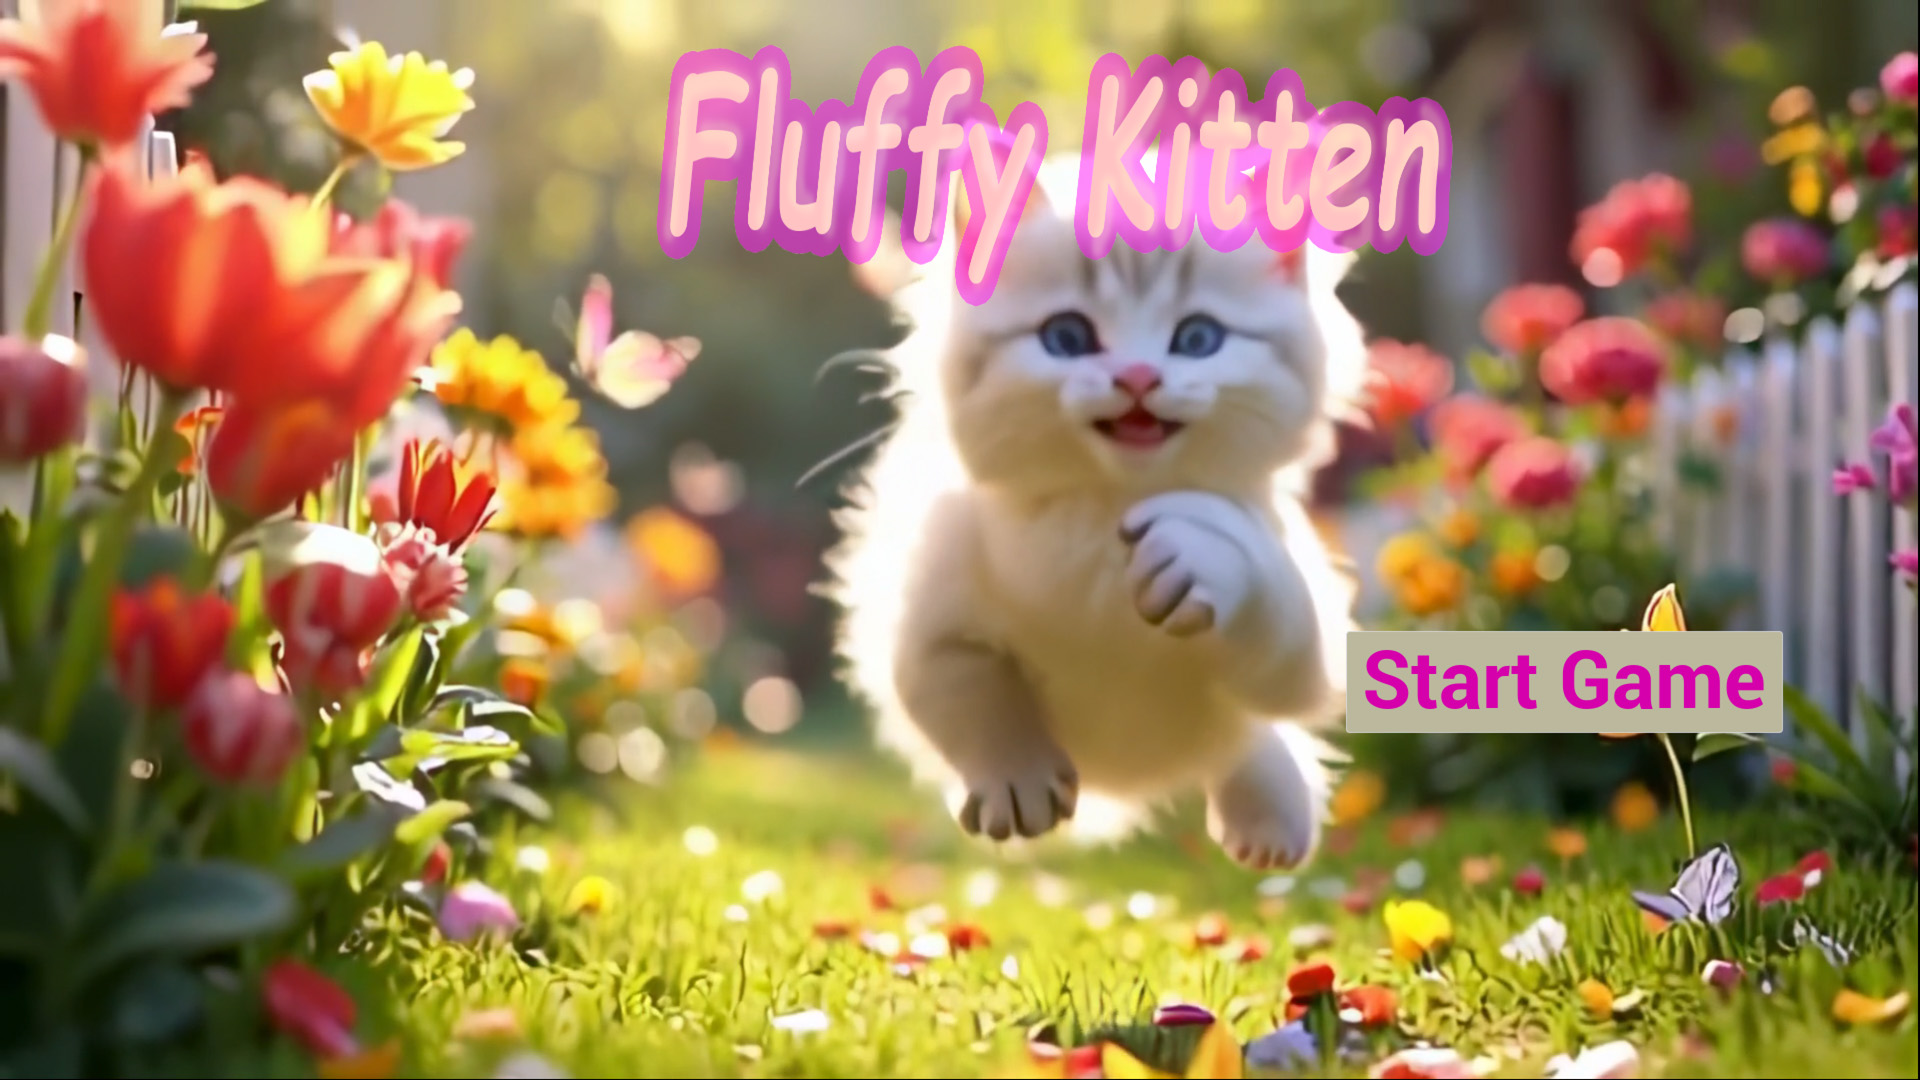
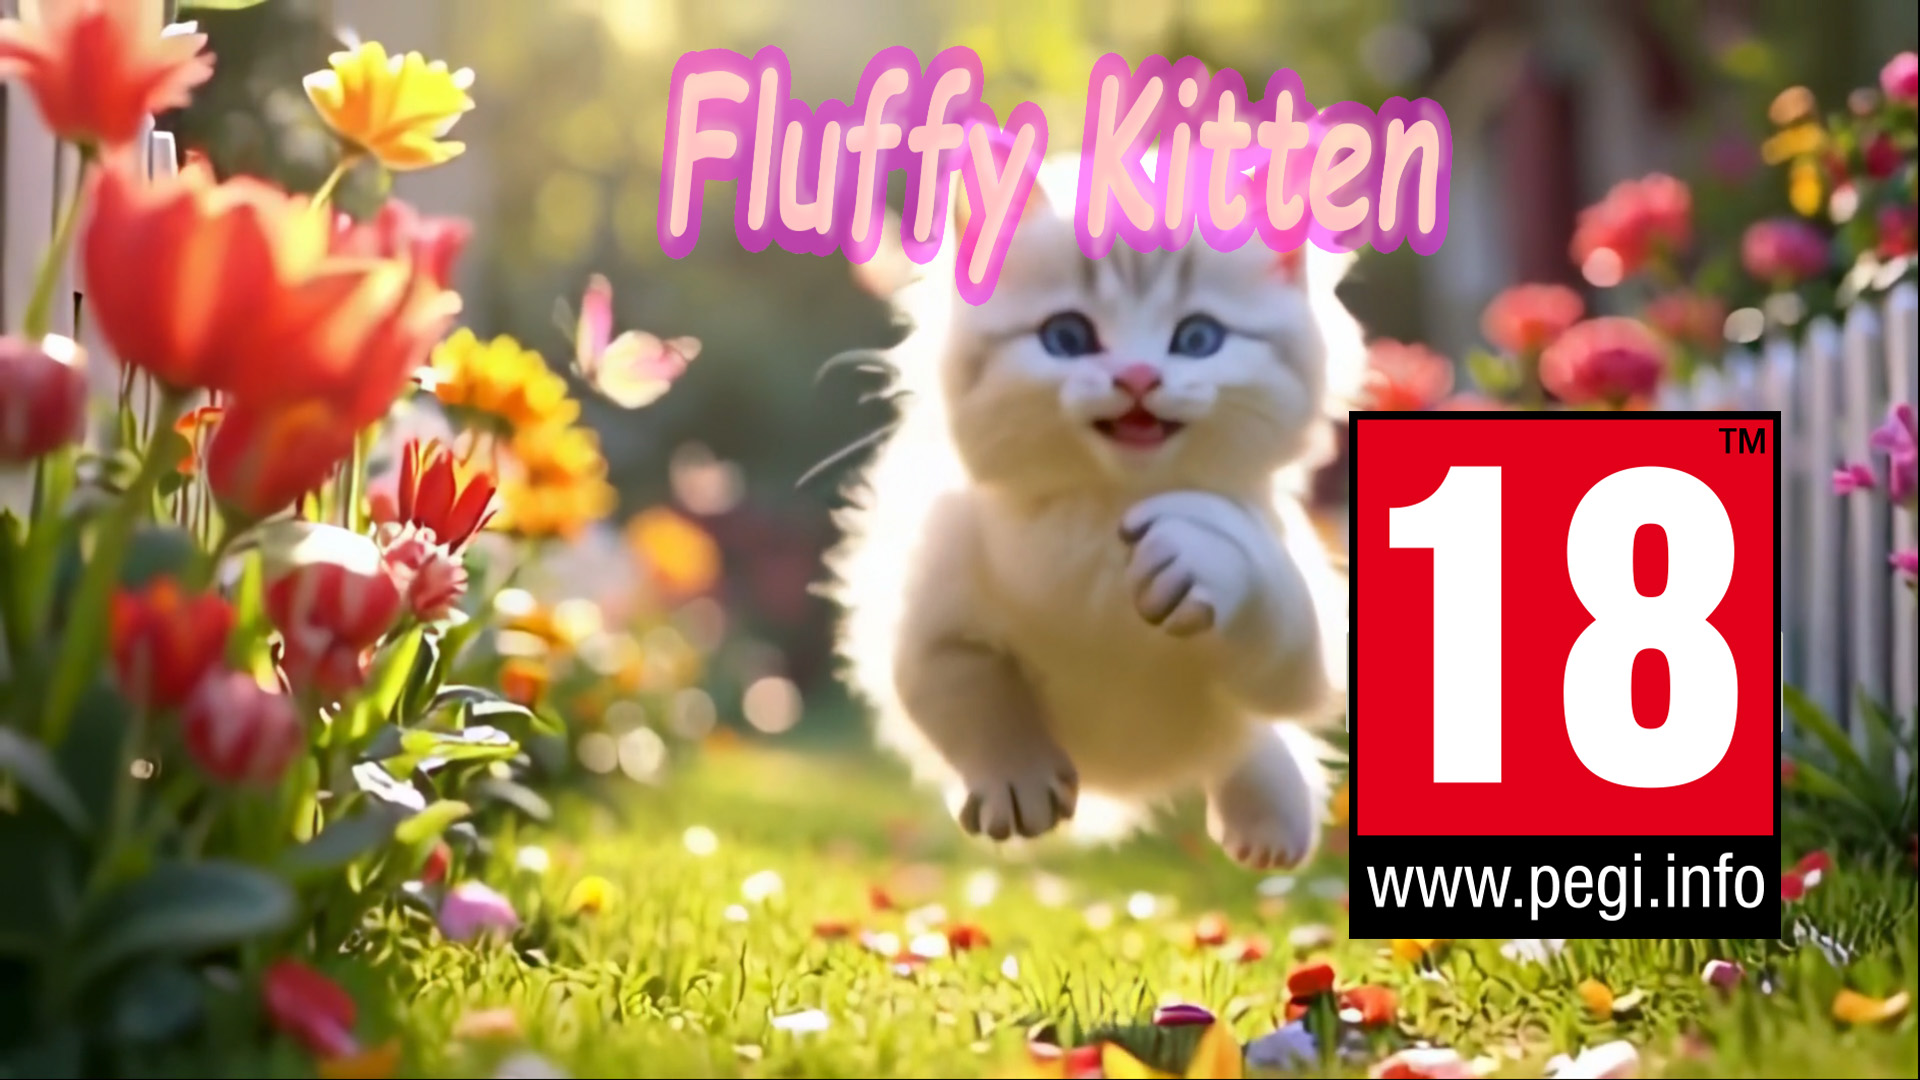
Edited Fluffy Kitten description.

Changed region(s): [[0.6875, 0.3667, 0.9375, 0.8861]]

diff --git a/index.html b/index.html
@@ -673,8 +673,8 @@
                     <p class="game-genre">Casual Adventure</p>
                     <p class="game-description">
                         Escape to a magical tropical paradise filled with adorable creatures and 
-                        relaxing adventures. Build your dream kitten home, befriend fluffy companions, 
-                        and discover hidden treasures in this charming family-friendly game.
+                        relaxing adventures. Give the Fluffy Kittens exactly what they deserve. 
+                        Discover hidden treasures in this charming adult game.  PEGI 18+
                     </p>
                     <div class="key-features">
                         <h3>Key Features</h3>
@@ -682,7 +682,7 @@
                             <div class="feature-item">Kitten customization</div>
                             <div class="feature-item">Cute companions</div>
                             <div class="feature-item">Treasure hunting</div>
-                            <div class="feature-item">Peaceful gameplay</div>
+                            <div class="feature-item">Brutal gameplay</div>
                         </div>
                     </div>
                     <div class="buttons">
